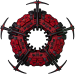
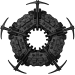
Started work on photon cannon, does aoe

diff --git a/photonCannon.h b/photonCannon.h
@@ -1,10 +1,10 @@
 // Created by Jeremy Bost
 
 #pragma once
-#include "structure.h"
+#include "tower.h"
 
-namespace towerNS {
-	const int PRICE = 400;
+namespace photonCannonNS {
+	const int PRICE = 500;
 	const float RANGE = 300.0f;
 	const float PROJECTILE_DURATION = 0.12f; // in seconds
 	const float TIME_BETWEEN_SHOTS = 1;//0.3f; // in seconds
@@ -16,19 +16,12 @@ namespace towerNS {
 	const int GUN_FRAME_END = 4;
 }
 
-class Tower : public Structure
+class PhotonCannon : public Tower
 {
 public:
-	Tower();
-	~Tower();
+	PhotonCannon();
+	~PhotonCannon();
 
-	bool initialize(Game *gamePtr, int widthInGrid, int heightInGrid, int ncols, TextureManager *textureM);
-
-	void drawProjectiles();
-	void draw();
-	void update(float frameTime);
-
-	// call this repeatedly to keep attacks going
 	virtual void attackTarget(Entity* target);
 
 	virtual float getRange() { return towerNS::RANGE; }
@@ -37,13 +30,5 @@ public:
 	virtual void setGunTexture(TextureManager* tm);
 
 	virtual void repair() { health = towerNS::STARTING_HEALTH; }
-
-private:
-	TextureManager* projectileTexture, *gunTexture;
-	Entity* target;
-	Image projectileImage, gunImage;
-
-	float projectileDisplayTimer;
-	bool firstShot;
 };
 

diff --git a/HullDefense.cpp b/HullDefense.cpp
@@ -313,17 +313,10 @@ void HullDefense::update()
 	}*/
 	//level1waves->update(frameTime);
 	if(input->isKeyDown('R')){
-		auto tmp = structureManager.getStructures();
-		while(!tmp.empty()){
-			if(tmp.front()->getType() == base){
-				tmp.front()->setHealth(1000000000);
-				break;
-			}
-			tmp.pop_front();
-		}
+		structureManager.setBaseHealth(structureManager.getBaseHealth() + 1000);
 	}
 	if(input->isKeyDown('C')){
-		gameState.addCurrency(100000);
+		gameState.addCurrency(1000);
 	}
 	// exit on esc
 	if(input->isKeyDown(VK_ESCAPE)){

diff --git a/tower.cpp b/tower.cpp
@@ -16,6 +16,7 @@ Tower::Tower()
 
 	setHealth(towerNS::STARTING_HEALTH);
 	price = towerNS::PRICE;
+	colorFilter = graphicsNS::RED;
 }
 
 
@@ -33,12 +34,13 @@ bool Tower::initialize(Game * gamePtr, int widthInGrid, int heightInGrid, int nc
 void Tower::drawProjectiles()
 {
 	projectileImage.draw(projectileImage.getColorFilter());
-	gunImage.draw();
+	//gunImage.draw();
 }
 
 void Tower::draw()
 {
 	Structure::draw();
+	gunImage.draw();
 	//gunImage.draw();
 }
 

diff --git a/structureManager.cpp b/structureManager.cpp
@@ -336,6 +336,17 @@ int StructureManager::getBaseHealth()
 	return 0;
 }
 
+void StructureManager::setBaseHealth(float health)
+{
+	std::list<Structure*> structureList = grid.getStructures();
+	for (auto iter = structureList.begin(); iter != structureList.end(); iter++) {
+		if ((*iter)->getType() == StructureTypes::base) {
+			(*iter)->setHealth(health);
+			return;
+		}
+	}
+}
+
 void StructureManager::reset()
 {
 	grid = StructureGrid();

diff --git a/constants.h b/constants.h
@@ -31,7 +31,7 @@ const UINT GRID_WIDTH = GAME_WIDTH/CELL_WIDTH;
 const UINT GRID_HEIGHT = GAME_HEIGHT/CELL_HEIGHT;
 const UINT MAX_ENEMIES = 30;
 
-enum StructureTypes {base = 1, wall = 2, turret = 3, tower = 4};
+enum StructureTypes {base = 1, wall = 2, turret = 3, tower = 4, photonCannon = 5};
 enum Targeting {weakestTarget, strongestTarget, baseTarget};
 
 const UINT PATHFINDING_MODIFIER = 5;

diff --git a/structure.h b/structure.h
@@ -13,7 +13,7 @@ public:
 
 	virtual bool initialize(Game *gamePtr, int widthInGrid, int heightInGrid, int ncols, TextureManager *textureM);
 
-	virtual void draw() { Entity::draw(); }
+	virtual void draw() { Entity::draw(getColorFilter()); }
 
 	virtual void drawProjectiles() {}
 

diff --git a/photonCannon.cpp b/photonCannon.cpp
@@ -1,0 +1,18 @@
+// Created by Jeremy Bost
+
+#include "photonCannon.h"
+
+
+
+PhotonCannon::PhotonCannon()
+{
+	Tower::Tower();
+
+	colorFilter = graphicsNS::PURPLE;
+	type = photonCannon;
+}
+
+
+PhotonCannon::~PhotonCannon()
+{
+}

diff --git a/structureManager.h b/structureManager.h
@@ -68,6 +68,8 @@ public:
 	
 	int getBaseHealth();
 
+	void setBaseHealth(float health);
+
 	void reset();
 
 	void onLostDevice();
